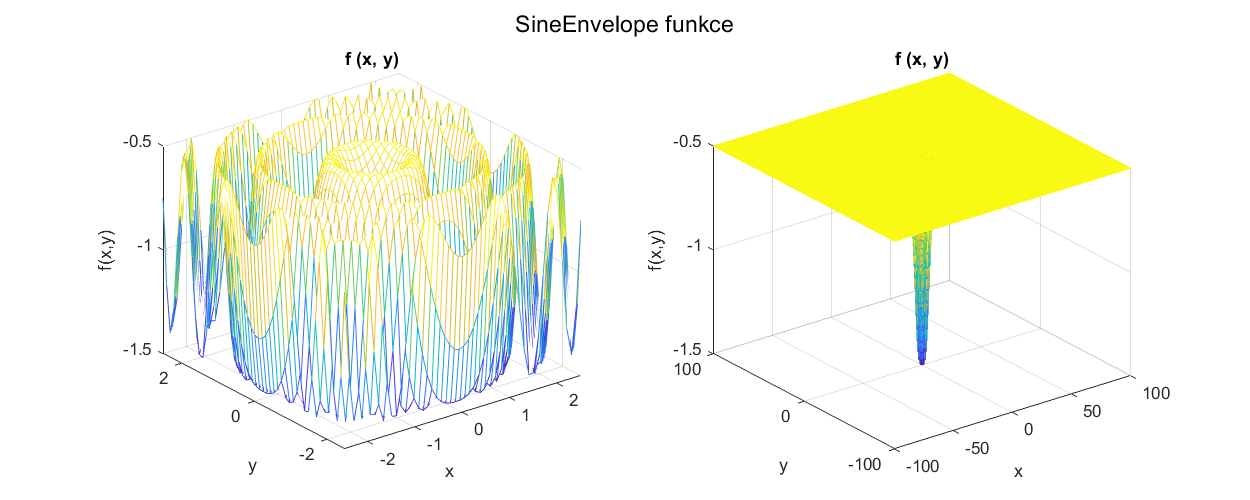
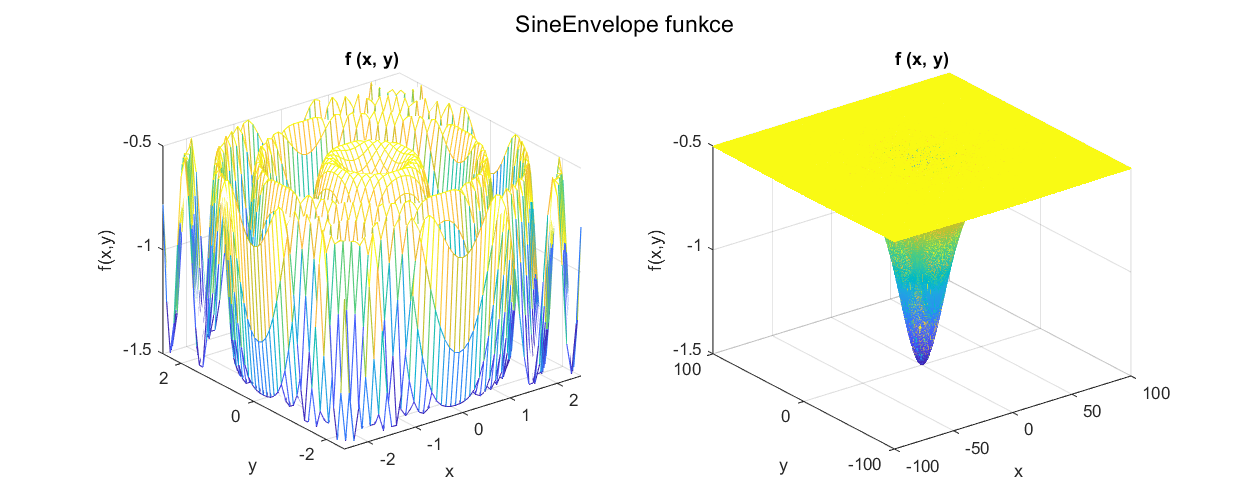
funcs tested

diff --git a/benchmark_functions/SineEnvelope.m b/benchmark_functions/SineEnvelope.m
@@ -13,9 +13,9 @@ us = -border_s : step_s : border_s;
 % f1(us)
  % not defined
 % F2(x,y)
-F2 = -(.5 + ((sin(x.^2 + y.^2 - .5).^2) ./ (1+0.001*(x.^2 + y.^2).^2)));
+F2 = -(.5 + ((sin(x.^2 + y.^2 - .5).^2) ./ (1+0.001*(x.^2 + y.^2)).^2));
 % f2(xs,ys)
-f2 = -(.5 + ((sin(xs.^2 + ys.^2 - .5).^2) ./ (1+0.001*(xs.^2 + ys.^2).^2)));
+f2 = -(.5 + ((sin(xs.^2 + ys.^2 - .5).^2) ./ (1+0.001*(xs.^2 + ys.^2)).^2));
 %% figure with 1 variable
 % figure(1); 
 % sgtitle("TITLE")

diff --git a/benchmark_functions/Bohachevsky.m b/benchmark_functions/Bohachevsky.m
@@ -13,9 +13,9 @@ us = -border_s : step_s : border_s;
 % f1(us)
  % not defined
 % F2(x,y)
-F2 = x.^2 + 2*y.^2 - .3*cos(3*pi*x) - .4*(4*pi*y) + .7;
+F2 = x.^2 + 2*y.^2 - .3*cos(3*pi*x) - .4*cos(4*pi*y) + .7;
 % f2(xs,ys)
-f2 = xs.^2 + 2*ys.^2 - .3*cos(3*pi*xs) - .4*(4*pi*ys) + .7;
+f2 = xs.^2 + 2*ys.^2 - .3*cos(3*pi*xs) - .4*cos(4*pi*ys) + .7;
 %% figure with 1 variable
 % figure(1); 
 % sgtitle("TITLE")

diff --git a/benchmark_functions/Vincent.m b/benchmark_functions/Vincent.m
@@ -13,9 +13,9 @@ F1 = -sin(10*log(u+101));
 % f1(us)
 f1 = -sin(10*log(us+101));
 % F2(x,y)
-F2 = -.5*(sin(10*log(x+101)) + sin(10*log(y+101)));
+F2 = -(sin(10*log10(x+101)) + sin(10*log10(y+101)));
 % f2(xs,ys)
-f2 = -.5*(sin(10*log(xs+101)) + sin(10*log(ys+101)));
+f2 = -(sin(10*log10(xs+101)) + sin(10*log10(ys+101)));
 %% figure with 1 variable
 figure(1); 
 sgtitle("Vincentova funkce")
